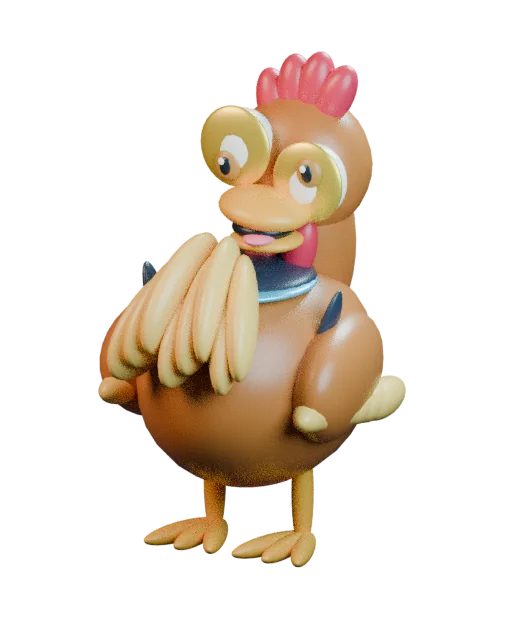
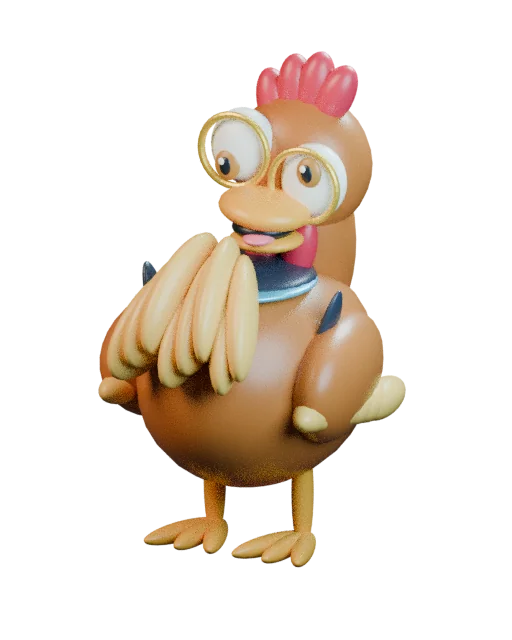
polish: chicken riders, mobile projection and verified live world rollout

Changed region(s): [[0.375, 0.1562, 0.6875, 0.375]]

diff --git a/index.html b/index.html
@@ -4,9 +4,9 @@
 <main id="home" class="screen">
  <header><a class="brand" href="#">KART<span>GO</span><i>›</i></a><span class="byline">BEDACHT DOOR JAYLENN</span><button id="sound" class="round" aria-label="Geluid aanzetten">♫</button></header>
  <section class="hero"><div class="hero-copy"><span class="eyebrow">JAYLENNS RACEWERELD</span><h1>KART <em>GO</em></h1><p>Vol gas door groene heuvels. Pak je power-ups.<br> En pas op voor een hond in een hotdog.</p><div class="hero-actions"><button id="resumeRace" class="secondary hidden">Hervat je race</button><button id="play" class="primary">Spelen <span>›</span></button><button id="how" class="text-button">Hoe speel je? <span>ⓘ</span></button></div><div class="hero-facts"><span><strong>75</strong> levels</span><span><strong>4</strong> werelden</span><span><strong>3</strong> eindbazen</span></div></div><div class="hero-art"><canvas id="art" aria-label="Een rode kart en een hond in een hotdog-kart tussen groene heuvels"></canvas><div class="art-tag"><span>🌭</span><div><strong>De hotdog-hond</strong><small>Hij wacht op je in level 20.</small></div><b>›</b></div><span class="float-tag">LET'S GO! ✦</span></div></section>
- <nav class="player-hub" aria-label="Jouw racewereld"><button id="profile" class="hub-card"><span id="playerAvatar">🧑🚀</span><strong id="playerName">Kies je racenaam</strong><small id="playerXP"></small></button><button id="garage" class="hub-card"><span>🏎</span><strong>Garage</strong><small>Motor, kleur & effecten</small></button><a href="./multiplayer/" style="display:inline-flex;align-items:center;padding:14px;background:#fbd451;color:#153b31;border-radius:14px;font-weight:800;text-decoration:none;margin:10px 0">Samen racen · QR-uitnodiging</a><button id="friends" class="hub-card"><span>🤝</span><strong>Vrienden</strong><small>Code & QR · online nog uit</small></button></nav><section class="party-teaser" aria-label="Party-Wereld vooruitblik"><span class="eyebrow">✨ WERELD 4 · NA DE IJS-WERELD · BEDACHT DOOR JAYLENN</span><div class="party-mounts" aria-label="Drie kiesbare racekippen"><img loading="lazy" src="assets/graphics/chickens/chicken-0-card.webp?v=worlds3" alt="Kuifkop"><img loading="lazy" src="assets/graphics/chickens/chicken-1-card.webp?v=worlds3" alt="Professor Tok"><img loading="lazy" src="assets/graphics/chickens/chicken-2-card.webp?v=worlds3" alt="Disco Tok"></div><h2>🎉 Party-Wereld: De 5 KM Kippen-Rodeo!</h2><p>Drie reuzenkippen, slingerende banen, meteorieten en bij kilometer 3 een GIGANTISCHE KAT! 🐈 Kies jouw knotsgekke racekip, zet je eigen coureur op het zadel en beleef Jaylenns vijf Party-races.</p><a class="party-play" href="./party/">🏁 Speel de 5 Party-levels!</a><span class="soon">Wereld 4 · levels 71–75 · originele voortgang behouden</span></section><nav class="menu-tools" aria-label="Spelmenu"><button id="chooseWorld"><span>🌍</span> Kies je wereld</button><button id="openWorldMap"><span>⚑</span> Wereldkaart</button><button id="menuSettings"><span>⚙</span> Instellingen</button></nav><section id="worldPanel" class="world hidden"><button id="closeWorldMap" class="secondary world-back">‹ Hoofdmenu</button><div class="section-heading"><div><span class="eyebrow">JOUW VOLGENDE AVONTUUR</span><h2>Op naar de finish.</h2></div><span id="progressText" class="progress-text">0 / 70 gewonnen</span></div><div class="map-tools"><button class="secondary" id="claimGlitter">✨ Haal je glitters op</button><span class="saved-note">Win je eerste race om deze kaartbeloning op te halen.</span></div><div class="route-line"><span>START</span><div></div><span>🌭 FINALE</span></div><div class="race-mode-choice" role="group" aria-label="Spelmodus"><button class="secondary" data-race-mode="free" aria-pressed="false">Vrij racen</button><button class="secondary" data-race-mode="adventure" aria-pressed="true">Avontuur</button></div><a data-online-world class="party-play" href="./multiplayer/?level=1&amp;mode=free">Samen racen in deze wereld ›</a><p id="modeHint" class="saved-note">Win een race om de volgende vrij te spelen.</p><div class="world-tabs" role="group" aria-label="Wereld kiezen"><button data-world="1" class="selected">🌿 Groene Wereld <small>1–20</small></button><button data-world="2">🏜 Zandwereld <small>21–50</small></button><button data-world="3">❄ IJs-Wereld <small>51–70</small></button><a class="party-world-card" data-party-world href="./party/?mode=free"><strong>Party-Wereld</strong><small>71–75 · Vrij racen</small></a></div><p id="worldHint"></p><div id="levels" class="levels"></div></section>
+ <nav class="player-hub" aria-label="Jouw racewereld"><button id="profile" class="hub-card"><span id="playerAvatar">🧑🚀</span><strong id="playerName">Kies je racenaam</strong><small id="playerXP"></small></button><button id="garage" class="hub-card"><span>🏎</span><strong>Garage</strong><small>Motor, kleur & effecten</small></button><a href="./multiplayer/" style="display:inline-flex;align-items:center;padding:14px;background:#fbd451;color:#153b31;border-radius:14px;font-weight:800;text-decoration:none;margin:10px 0">Samen racen · QR-uitnodiging</a><button id="friends" class="hub-card"><span>🤝</span><strong>Vrienden</strong><small>Code & QR · online nog uit</small></button></nav><section class="party-teaser" aria-label="Party-Wereld vooruitblik"><span class="eyebrow">✨ WERELD 4 · NA DE IJS-WERELD · BEDACHT DOOR JAYLENN</span><div class="party-mounts" aria-label="Drie kiesbare racekippen"><img loading="lazy" src="assets/graphics/chickens/chicken-0-card.webp?v=worlds3.1" alt="Kuifkop"><img loading="lazy" src="assets/graphics/chickens/chicken-1-card.webp?v=worlds3.1" alt="Professor Tok"><img loading="lazy" src="assets/graphics/chickens/chicken-2-card.webp?v=worlds3.1" alt="Disco Tok"></div><h2>🎉 Party-Wereld: De 5 KM Kippen-Rodeo!</h2><p>Drie reuzenkippen, slingerende banen, meteorieten en bij kilometer 3 een GIGANTISCHE KAT! 🐈 Kies jouw knotsgekke racekip, zet je eigen coureur op het zadel en beleef Jaylenns vijf Party-races.</p><a class="party-play" href="./party/">🏁 Speel de 5 Party-levels!</a><span class="soon">Wereld 4 · levels 71–75 · originele voortgang behouden</span></section><nav class="menu-tools" aria-label="Spelmenu"><button id="chooseWorld"><span>🌍</span> Kies je wereld</button><button id="openWorldMap"><span>⚑</span> Wereldkaart</button><button id="menuSettings"><span>⚙</span> Instellingen</button></nav><section id="worldPanel" class="world hidden"><button id="closeWorldMap" class="secondary world-back">‹ Hoofdmenu</button><div class="section-heading"><div><span class="eyebrow">JOUW VOLGENDE AVONTUUR</span><h2>Op naar de finish.</h2></div><span id="progressText" class="progress-text">0 / 70 gewonnen</span></div><div class="map-tools"><button class="secondary" id="claimGlitter">✨ Haal je glitters op</button><span class="saved-note">Win je eerste race om deze kaartbeloning op te halen.</span></div><div class="route-line"><span>START</span><div></div><span>🌭 FINALE</span></div><div class="race-mode-choice" role="group" aria-label="Spelmodus"><button class="secondary" data-race-mode="free" aria-pressed="false">Vrij racen</button><button class="secondary" data-race-mode="adventure" aria-pressed="true">Avontuur</button></div><a data-online-world class="party-play" href="./multiplayer/?level=1&amp;mode=free">Samen racen in deze wereld ›</a><p id="modeHint" class="saved-note">Win een race om de volgende vrij te spelen.</p><div class="world-tabs" role="group" aria-label="Wereld kiezen"><button data-world="1" class="selected">🌿 Groene Wereld <small>1–20</small></button><button data-world="2">🏜 Zandwereld <small>21–50</small></button><button data-world="3">❄ IJs-Wereld <small>51–70</small></button><a class="party-world-card" data-party-world href="./party/?mode=free"><strong>Party-Wereld</strong><small>71–75 · Vrij racen</small></a></div><p id="worldHint"></p><div id="levels" class="levels"></div></section>
  <div id="assetStatus" class="asset-status" role="status"></div><footer><span>KART GO — Een spel bedacht door <strong>Jaylenn</strong> · gebouwd met hulp van AI</span><button id="settings" class="text-button">⚙ Besturing</button><button id="exportProgress" class="text-button">Bewaar voortgang</button><button id="importProgress" class="text-button">Lees voortgang in</button><input id="progressFile" type="file" accept="application/json,.json" class="hidden"><span>JAYLENNS RACEWERELD · V6.2</span></footer>
 </main>
 <section id="race" class="hidden"><canvas id="game" aria-label="Racebaan"></canvas><div id="hud"><button id="pause" class="hud-button" aria-label="Pauzeren">II</button><div class="race-label"><small id="levelLabel">LEVEL 01</small><strong id="trackLabel">Groene start</strong></div><div class="race-stats"><span><small>POSITIE</small><b id="position">1<span>/4</span></b></span><span><small>RONDE</small><b id="lap">1<span>/2</span></b></span><span><small>TIJD</small><b id="time">0:00</b></span></div></div><div id="danger" class="hidden">⚠ GEVAAR ACHTER JE <div><i></i></div></div><div id="iceCue" class="hidden" role="status" aria-live="polite"></div><div id="recoveryCue" class="hidden" role="status" aria-live="polite"></div><div id="toast" role="status" aria-live="polite"></div><div id="startLights" class="hidden" data-phase="3" aria-label="Startlicht"><i></i><i></i><i></i></div><div id="startVoice" class="hidden" aria-live="polite"></div><div id="countdown" aria-live="assertive"></div><span id="racePlayer"></span><button id="cosmetic" class="hidden" aria-label="Boem-effect gebruiken">💥 Boem</button><div id="racebottom"><div class="speed"><b id="speed">0</b><small>KM/U</small></div><div id="inventory"></div><button id="auto" class="auto active">AUTOGAS AAN</button></div><div id="controls"><button id="modeSwitch" aria-label="Besturing wisselen">Stuurknoppen · wissel</button><button id="brake" class="pedal">▰<small>REM</small></button><div id="steering"><button id="left" aria-label="Stuur links">◀</button><div id="wheel" role="slider" tabindex="0" aria-valuemin="-100" aria-valuemax="100" aria-valuenow="0" aria-label="Stuurwiel, sleep links of rechts"><span>✣</span></div><button id="right" aria-label="Stuur rechts">▶</button><div id="joystick" class="hidden" role="slider" tabindex="0" aria-label="Groene joystick" aria-valuemin="-100" aria-valuemax="100" aria-valuenow="0"><i></i></div></div><button id="gas" class="pedal gas">▥<small>GAS</small></button></div><div id="mini"><canvas id="minimap" width="130" height="90"></canvas></div></section>
 <dialog id="modal"><button id="closeModal" class="close" aria-label="Sluiten">×</button><div id="modalBody"></div></dialog>
-<script defer src="./assets/party-neon-v63.js?v=6.3.0"></script><script defer src="./assets/vendor/qrcode.js?v=1.4.4"></script><script defer src="./assets/graphics.js?v=6.2.3"></script><script defer src="./assets/player.js?v=worlds-3"></script><script defer src="./assets/scenery.js?v=6.2.1"></script><script defer src="./assets/desert.js?v=6.2.1"></script><script defer src="./assets/course.js?v=6.2.1"></script><script defer src="./assets/ice-world.js?v=6.2.1"></script><script defer src="./assets/race-adventure.js?v=6.2.1"></script><script defer src="./assets/game.js?v=worlds3"></script></body></html>
+<script defer src="./assets/party-neon-v63.js?v=6.3.0"></script><script defer src="./assets/vendor/qrcode.js?v=1.4.4"></script><script defer src="./assets/graphics.js?v=6.2.3"></script><script defer src="./assets/player.js?v=worlds-3.1"></script><script defer src="./assets/scenery.js?v=6.2.1"></script><script defer src="./assets/desert.js?v=6.2.1"></script><script defer src="./assets/course.js?v=6.2.1"></script><script defer src="./assets/ice-world.js?v=6.2.1"></script><script defer src="./assets/race-adventure.js?v=6.2.1"></script><script defer src="./assets/game.js?v=worlds3.1"></script></body></html>

diff --git a/party/index.html b/party/index.html
@@ -1,8 +1,8 @@
-<!doctype html><html lang="nl"><head><base href="../"><meta charset="utf-8"><link rel="stylesheet" href="assets/visual-v5.css?v=worlds3"><meta name="viewport" content="width=device-width,initial-scale=1,viewport-fit=cover,user-scalable=no"><meta name="theme-color" content="#100d35"><title>Kart Go — Party-Wereld van Jaylenn</title><style>
+<!doctype html><html lang="nl"><head><base href="../"><meta charset="utf-8"><link rel="stylesheet" href="assets/visual-v5.css?v=worlds3.1"><meta name="viewport" content="width=device-width,initial-scale=1,viewport-fit=cover,user-scalable=no"><meta name="theme-color" content="#100d35"><title>Kart Go — Party-Wereld van Jaylenn</title><style>
 *{box-sizing:border-box}html,body{margin:0;min-height:100%;font:600 15px system-ui;color:#fff;background:radial-gradient(circle at 75% 0,#5326a5,#101039 65%)}button{font:inherit;cursor:pointer;touch-action:manipulation}header{padding:14px 16px;display:flex;align-items:center;justify-content:space-between;background:#0b1749;border-bottom:2px solid #43dfff}a{color:#9eeaff;text-decoration:none}.logo{font-size:26px;font-style:italic;font-weight:1000;text-shadow:0 0 12px #16caff}.logo span{color:#ffca38}.wrap{max-width:950px;margin:auto;padding:18px}.title{font-size:clamp(26px,5vw,44px);color:#ffda66;text-shadow:0 0 15px #e442ff;margin:10px 0}.lead{color:#e9cfff}.cards{display:grid;grid-template-columns:repeat(5,minmax(0,1fr));gap:10px}.card{border:2px solid #6ae5ff;border-radius:15px;background:linear-gradient(145deg,#6b259c,#162a76);color:white;padding:15px 7px;min-height:120px;box-shadow:0 5px 0 #080f39,0 0 15px #a338ff66}.card b{display:block;font-size:25px}.card small{display:block;font-size:11px;margin-top:8px}.card.active{border-color:#ffdf4c;box-shadow:0 0 25px #ffbf47}.card.locked{opacity:.6}.panel{margin-top:18px;border:2px solid #ff76ed;background:#1b1557;border-radius:20px;padding:16px;box-shadow:0 0 22px #d234ff66}.panel p{line-height:1.6}.go{background:linear-gradient(#fff6a2,#ffba28);color:#381749;border:0;border-radius:14px;padding:14px 22px;font-weight:1000;box-shadow:0 5px 0 #995316}#stage{display:none}#game{display:block;width:100%;height:min(65svh,650px);background:#14245b;border:3px solid #7fe7ff;border-radius:18px;touch-action:none}#hud{display:flex;gap:10px;flex-wrap:wrap;justify-content:space-between;padding:12px 0}#hud span{background:#132865;border:1px solid #55caff;border-radius:12px;padding:8px 12px}#controls{display:flex;gap:15px;justify-content:space-between;margin:14px 0}#controls button{width:28%;height:70px;border:2px solid #77e6ff;border-radius:18px;background:linear-gradient(#2456c3,#161d5d);color:white;font-size:24px}#controls button:active{background:#5a95ff}.note{font-size:12px;color:#d9cafa}@media(max-width:600px){.cards{grid-template-columns:repeat(3,1fr)}.card{min-height:95px}.wrap{padding:12px}#game{height:56svh}}.party-driver{display:grid;grid-template-columns:1fr 1fr;gap:15px;align-items:center}.party-driver canvas{width:100%;height:250px;object-fit:contain}.party-driver label{display:block;margin:12px 0 6px}.party-driver select{width:100%;font:inherit;padding:12px;border-radius:12px;color:white;background:#193255;border:1px solid #7cafd4}.party-chicken-cards{display:flex;gap:12px;margin:15px 0}.party-chicken-cards button{flex:1;min-width:0;color:white;background:#192c54;border:2px solid #5eaad1;border-radius:16px;padding:8px}.party-chicken-cards button[aria-pressed=true]{border-color:#ffdd69;box-shadow:0 0 20px #ffd35344}.party-chicken-cards img{width:100%;height:150px;object-fit:contain}.party-chicken-cards b{display:block}.party-actions{display:flex;gap:12px;flex-wrap:wrap;align-items:center;margin:12px 0}.online-inventory{display:flex;justify-content:center;gap:12px;margin:12px 0}.online-inventory button{width:64px;height:64px;border-radius:15px;color:#fff;background:#1a335f;border:2px solid #6dc8de;font-size:22px}.online-inventory img{width:48px;height:48px}.online-inventory .power-sprite{display:block;background-image:url("assets/graphics/effects-v5.webp");background-size:500% 200%;width:48px;height:48px}#controls{gap:8px}#controls button{width:24%;font-size:18px;height:62px}.card b{font:900 28px system-ui}.party-status-banner{font-weight:800;color:#ffe5a5;text-align:center}@media(max-width:600px){.party-driver{grid-template-columns:1fr}.party-driver canvas{height:220px}.party-chicken-cards{gap:5px}.party-chicken-cards img{height:110px}.party-chicken-cards button{font-size:11px}.party-actions .go{padding:12px;font-size:13px}} 
 #menu{background:linear-gradient(#10123822,#101039f5 370px),url('assets/graphics/chickens/party-fairground.webp') center top/950px auto no-repeat;padding-top:14px}.party-driver canvas{filter:drop-shadow(0 5px 15px #66dfff55)}.party-driver select{background:#101d42ee}.party-status-banner{background:#142859bb;border:1px solid #71e0ff;border-radius:14px;padding:10px}.party-chicken-cards button{background:linear-gradient(#192b5399,#172044)}.party-chicken-cards button:hover{transform:translateY(-3px)}.card{transition:transform .15s}.card:hover{transform:translateY(-3px)}
 body.party-racing{overflow:hidden}body.party-racing #stage{position:fixed;inset:0;z-index:20;padding:max(6px,env(safe-area-inset-top)) max(8px,env(safe-area-inset-right)) max(8px,env(safe-area-inset-bottom)) max(8px,env(safe-area-inset-left));display:flex!important;flex-direction:column;gap:6px;background:#0c102e}body.party-racing #hud{padding:0;gap:5px;font-size:11px;flex:none}body.party-racing #hud span{padding:6px 8px}body.party-racing #game{height:0;min-height:100px;flex:1}body.party-racing #controls{margin:0;flex:none}body.party-racing #controls button{height:48px}body.party-racing .online-inventory{margin:0;flex:none}body.party-racing .online-inventory button{height:48px;width:55px;font-size:16px}body.party-racing .online-inventory .power-sprite{width:36px;height:36px}body.party-racing .party-actions{gap:6px;margin:0;flex:none}body.party-racing .party-actions .go{padding:11px;font-size:12px;min-height:44px}body.party-racing #stage>.note{display:none}#partyFinish:not([hidden]){position:absolute;inset:10px;z-index:40;overflow:auto;text-align:center;background:#121945f5}@media(orientation:landscape) and (max-height:500px){body.party-racing #hud{font-size:10px}body.party-racing .party-actions{position:absolute;right:14px;top:60px;flex-direction:column;align-items:stretch}body.party-racing #controls button{height:44px}body.party-racing #game{min-height:80px}body.party-racing .online-inventory{position:absolute;left:20px;top:62px;flex-direction:column}body.party-racing .online-inventory button{width:44px;height:44px}} </style></head><body>
 <header><a href="./">‹ Originele Kart Go</a><div class="logo">KART<span>GO</span></div><small>BEDACHT DOOR JAYLENN</small></header>
 <main class="wrap"><section id="menu"><h1 class="title">🎉 Party-Wereld</h1><a href="multiplayer/?level=71&amp;mode=free" class="go">Samen in de Party-Wereld ›</a><p class="lead">Vijf nieuwe races vol Lucky Blocks, gekke hindernissen en de reuzenkat. De eerste 70 levels blijven gewoon bestaan.</p><label for="partyMode">Spelmodus</label> <select id="partyMode" style="font:inherit;padding:12px;background:#142956;color:white;border:1px solid #77e6ff;border-radius:12px"><option value="free">Vrij racen · alle 5 levels</option><option value="adventure">Avontuur · vrijspelen</option></select><div class="party-driver"><canvas id="partyPreview" width="600" height="330" aria-label="Jouw gekozen kip met eigen coureur"></canvas><div><label for="partyAvatar">Jouw coureur</label><select id="partyAvatar"></select><label for="partyEngine">Motorvermogen</label><select id="partyEngine"><option value="250">250 pk</option><option value="509">509 pk</option><option value="1000">1000 pk</option></select><label for="partyChicken">Kies jouw racekip</label><select id="partyChicken"><option value="0">Kuifkop</option><option value="1">Professor Tok</option><option value="2">Disco Tok</option></select></div></div><div id="partyChickenCards" class="party-chicken-cards"></div><p id="partyStatus" role="status">Kippen en coureurs laden…</p><div class="cards" id="cards"></div><div class="panel"><h2 id="descriptionTitle">Kies een level</h2><p id="description"></p><button id="play" class="go">🏁 Start race!</button><p class="note">Besturing: stuur en geef gas tegelijk, of gebruik autogas. Spring met de knop of spatie. Botsing? Zes seconden straf. Voortgang wordt apart bewaard.</p></div></section>
 <section id="stage"><div id="hud"><span id="raceName"></span><span id="distance"></span><span id="penalty"></span><span id="score"></span></div><canvas id="game"></canvas><div id="partyItems" class="online-inventory"></div><div id="controls"><button id="brake" aria-label="Rem">REM</button><button id="left" aria-label="Links">◀</button><button id="right" aria-label="Rechts">▶</button><button id="gas" aria-label="Gas">GAS</button></div><div class="party-actions"><button id="jump" class="go">SPRING ↟</button><button id="pause" class="go">Pauze</button><button id="restart" class="go">Opnieuw</button><label><input id="partyAuto" type="checkbox" checked> Autogas</label><button id="back" class="go">‹ Menu</button></div><div id="partyFinish" class="panel" hidden></div><p class="note">Vermijd hindernissen. Raak de ✨ sterren voor punten. Bij 3 km pakt de kat één kip. Houd je klaar: spring naar de veilige kip!</p></section></main>
-<script src="assets/graphics.js?v=6.2.3"></script><script src="assets/player.js?v=worlds3"></script><script src="assets/race-worlds.js?v=worlds3"></script><script src="assets/world-race-renderer.js?v=worlds3"></script><script src="party/party-riders.js?v=worlds3"></script></body></html>
+<script src="assets/graphics.js?v=6.2.3"></script><script src="assets/player.js?v=worlds3.1"></script><script src="assets/race-worlds.js?v=worlds3.1"></script><script src="assets/world-race-renderer.js?v=worlds3.1"></script><script src="party/party-riders.js?v=worlds3.1"></script></body></html>

diff --git a/multiplayer/index.html b/multiplayer/index.html
@@ -1,6 +1,6 @@
-<!doctype html><html lang="nl"><head><meta charset="utf-8"><base href="../"><meta name="viewport" content="width=device-width,initial-scale=1,viewport-fit=cover"><meta name="theme-color" content="#08172e"><meta name="referrer" content="no-referrer"><title>Kart Go — Samen racen</title><link rel="stylesheet" href="assets/visual-v5.css?v=worlds-3"><link rel="stylesheet" href="multiplayer/online.css?v=worlds-3"></head><body>
+<!doctype html><html lang="nl"><head><meta charset="utf-8"><base href="../"><meta name="viewport" content="width=device-width,initial-scale=1,viewport-fit=cover"><meta name="theme-color" content="#08172e"><meta name="referrer" content="no-referrer"><title>Kart Go — Samen racen</title><link rel="stylesheet" href="assets/visual-v5.css?v=worlds-3.1"><link rel="stylesheet" href="multiplayer/online.css?v=worlds-3.1"></head><body>
 <header><a href="./" class="brand">KART<span>GO</span></a><small>BEDACHT DOOR JAYLENN</small><a href="./">‹ Hoofdmenu</a></header><main>
 <section id="setup" class="panel"><span class="eyebrow">MET JE VRIENDJES AAN DE START</span><h1>Samen racen</h1><p id="intro">Maak een besloten racekamer. Je vriendje scant jouw QR en rijdt met je mee.</p><div id="setupSelection" class="course-pick"><label for="raceMode">Spelmodus</label><select id="raceMode"><option value="free">Vrij racen · alles open</option><option value="adventure">Avontuur · co-opregel</option></select><div id="worldCards" class="world-cards"></div><label for="levelPick">Kies je level</label><select id="levelPick"></select></div><button id="backToLobby" class="hidden">Bewaar en terug naar racekamer</button><div class="profile"><canvas id="kartPreview" width="500" height="280" aria-label="Jouw kart en coureur"></canvas><div><label for="nickname">Jouw racenaam</label><input id="nickname" maxlength="18" placeholder="Bijvoorbeeld TurboJay" autocomplete="nickname"><label for="avatar">Jouw coureur</label><select id="avatar"></select><label for="paint">Kartkleur</label><select id="paint"></select><label for="engine">Motorvermogen</label><select id="engine"><option value="250">250 pk</option><option value="509">509 pk</option><option value="1000">1000 pk</option></select><label for="controlMode">Besturing</label><select id="controlMode"><option value="buttons">Stuurknoppen</option><option value="wheel">Stuurwiel</option><option value="joystick">Groene joystick</option></select></div></div><div id="chickenGarage" class="hidden"><h2>Kies jouw knotsgekke racekip</h2><p>Jouw eigen coureur zit op het zadel. De kip is jouw voertuig!</p><select id="chickenChoice" class="hidden"><option value="0">Kuifkop</option><option value="1">Professor Tok</option><option value="2">Disco Tok</option></select><div id="chickenCards" class="chicken-cards"></div></div><p class="note">Alle werelden zijn direct beschikbaar in Vrij racen. Avontuur bewaart je voortgang; samen mag een level als één coureur het al gewonnen heeft.</p><button id="create" class="primary">Maak een racekamer ›</button><button id="joinInvite" class="primary hidden">Doe mee met deze race ›</button><details><summary>Ik heb een uitnodigingslink</summary><label for="inviteInput">Plak de volledige uitnodigingslink</label><input id="inviteInput" type="url" placeholder="Plak hier de link"><button id="joinLink">Open uitnodiging</button></details></section>
 <section id="lobby" class="panel hidden"><div class="heading"><div><span class="eyebrow">BESLOTEN RACEKAMER</span><h2 id="roomName">Even verbinden…</h2></div><span id="connection" class="badge">Verbinden</span></div><div id="lobbySelection" class="course-pick"><strong id="selectedCourse"></strong><div class="lobby-course-row"><select id="lobbyWorld" aria-label="Wereld voor volgende race"></select><select id="lobbyLevel" aria-label="Level voor volgende race"></select><select id="lobbyMode" aria-label="Spelmodus"><option value="free">Vrij racen</option><option value="adventure">Avontuur</option></select></div><small id="courseRule"></small></div><div class="invitation"><div class="qr-card"><span class="flag">▰ ▱ ▰ ▱ ▰</span><h2>KART GO</h2><strong>RACE MET MIJ MEE!</strong><div id="qr" aria-label="Scanbare uitnodigings-QR"></div><b>SCAN & RACE!</b><small>BEDACHT DOOR JAYLENN</small></div><div class="invite-actions"><p>Scan met je telefooncamera. Naam kiezen, klaarzetten en racen!</p><p id="capacity">0 / 6 coureurs</p><button id="share">Deel uitnodiging</button><button id="copy">Kopieer link</button><button id="newRoom">Nieuwe QR-code</button><small>Een nieuwe QR maakt een nieuwe kamer. De bestaande kamer wordt daarmee niet gesloten.</small></div></div><div id="members" class="members" aria-live="polite"></div><button id="editProfile">Mijn coureur en voertuig aanpassen</button><div class="actions"><button id="ready" class="primary" disabled>Ik ben klaar</button><button id="start" class="primary" disabled>Start race</button><button id="leave">Verlaat kamer</button></div></section>
 <section id="race" class="hidden"><div class="race-heading"><strong id="raceTitle">Samen racen</strong><span id="raceInfo"></span><button id="exitRace">Stop race</button></div><div class="track-wrap"><canvas id="track" width="900" height="650" aria-label="Gezamenlijke online racebaan"></canvas><div id="countdown" aria-live="assertive"></div><div id="standings"></div><div id="eventCue" role="status"></div></div><div id="onlineInventory" class="online-inventory" aria-label="Drie inventarisplaatsen"></div><div class="drive-controls"><button id="brake">REM</button><button id="left" aria-label="Stuur links">◀</button><button id="right" aria-label="Stuur rechts">▶</button><button id="gas">GAS</button><div id="analogSteer" class="hidden" role="slider" aria-label="Stuurwiel of joystick" aria-valuemin="-100" aria-valuemax="100" aria-valuenow="0"><i></i></div></div><button id="jump" class="hidden">SPRING ↟</button><p class="note">Houd gas en een stuurknop tegelijk vast. Computer: pijltjes of WASD. Bij wegklikken laat je kart vanzelf gas los.</p><div id="results" class="panel hidden"><h2>Finish!</h2><ol id="resultList"></ol><button id="raceAgain" class="primary">Volgende race · zelfde kamer</button><a href="./">Hoofdmenu</a></div></section>
-<p id="status" role="status" aria-live="polite">Beelden worden geladen…</p><button id="reconnect" class="hidden">Opnieuw verbinden</button><p class="note">Geen accounts, openbare chat of spelerslijst. Gebruik een bijnaam. De serverkamer verloopt na maximaal twee uur. Je kunt na kort verbindingsverlies je bestaande raceplek hervatten.</p></main><script src="assets/vendor/qrcode.js?v=1.4.4"></script><script src="assets/graphics.js?v=6.2.3"></script><script src="assets/player.js?v=worlds-3"></script><script src="assets/race-worlds.js?v=worlds-3"></script><script src="assets/world-race-renderer.js?v=worlds-3"></script><script src="multiplayer/online.js?v=worlds-3"></script></body></html>
+<p id="status" role="status" aria-live="polite">Beelden worden geladen…</p><button id="reconnect" class="hidden">Opnieuw verbinden</button><p class="note">Geen accounts, openbare chat of spelerslijst. Gebruik een bijnaam. De serverkamer verloopt na maximaal twee uur. Je kunt na kort verbindingsverlies je bestaande raceplek hervatten.</p></main><script src="assets/vendor/qrcode.js?v=1.4.4"></script><script src="assets/graphics.js?v=6.2.3"></script><script src="assets/player.js?v=worlds-3.1"></script><script src="assets/race-worlds.js?v=worlds-3.1"></script><script src="assets/world-race-renderer.js?v=worlds-3.1"></script><script src="multiplayer/online.js?v=worlds-3.1"></script></body></html>

diff --git a/assets/world-race-renderer.js b/assets/world-race-renderer.js
@@ -2,7 +2,7 @@
 'use strict';
 const WorldRace=(()=>{
  const courses=new Map();let slowFrames=0;const images=new Map(),names=['Kuifkop','Professor Tok','Disco Tok'];let ready=false;
- function load(){return Promise.all([Promise.all(['fairground','train'].map(name=>new Promise((resolve,reject)=>{const im=new Image();im.onload=()=>{images.set(name,im);resolve();};im.onerror=reject;im.src='./assets/graphics/chickens/party-'+name+'.webp?v=worlds3';}))),Promise.all(['characters','charactersExtra','karts','landscapes','scenery','winter','iceprops','effects','terrain','bosses','burger'].map(GFX.load)),...Array.from({length:3},(_,i)=>['rear','card'].map(v=>new Promise((resolve,reject)=>{const im=new Image();im.onload=()=>{images.set(i+'-'+v,im);resolve();};im.onerror=reject;im.src='./assets/graphics/chickens/chicken-'+i+'-'+v+'.webp?v=worlds3';}))).flat(),new Promise((resolve,reject)=>{const im=new Image();im.onload=()=>{images.set('cat',im);resolve();};im.onerror=reject;im.src='./assets/graphics/chickens/party-cat.webp?v=worlds3';})]).then(()=>ready=true);}
+ function load(){return Promise.all([Promise.all(['fairground','train'].map(name=>new Promise((resolve,reject)=>{const im=new Image();im.onload=()=>{images.set(name,im);resolve();};im.onerror=reject;im.src='./assets/graphics/chickens/party-'+name+'.webp?v=worlds3.1';}))),Promise.all(['characters','charactersExtra','karts','landscapes','scenery','winter','iceprops','effects','terrain','bosses','burger'].map(GFX.load)),...Array.from({length:3},(_,i)=>['rear','card'].map(v=>new Promise((resolve,reject)=>{const im=new Image();im.onload=()=>{images.set(i+'-'+v,im);resolve();};im.onerror=reject;im.src='./assets/graphics/chickens/chicken-'+i+'-'+v+'.webp?v=worlds3.1';}))).flat(),new Promise((resolve,reject)=>{const im=new Image();im.onload=()=>{images.set('cat',im);resolve();};im.onerror=reject;im.src='./assets/graphics/chickens/party-cat.webp?v=worlds3.1';})]).then(()=>ready=true);}
  function chicken(c,x,y,k,index,avatar,front=false,time=0,jump=0){const im=images.get((index||0)+'-'+(front?'card':'rear'));if(!im)return false;c.save();c.translate(x,y-jump);c.rotate(Math.sin(time*9+index)*.018);c.shadowColor='#02041499';c.shadowBlur=12*k;c.drawImage(im,-91*k,-204*k,182*k,228*k);c.shadowBlur=0;
   const rider=GFX.driverSprite(avatar, !front);if(rider){c.fillStyle='#163a72';for(const side of [-1,1]){c.beginPath();c.ellipse(side*28*k,-57*k,8*k,19*k,side*.2,0,7);c.fill();}c.drawImage(rider,-34*k,-130*k,68*k,68*k);}c.restore();return true;}
  function preview(c,w,h,p,party=false){c.clearRect(0,0,w,h);const k=Math.min(w/320,h/230);if(party)return chicken(c,w/2,h*.93,k,p.chicken,AVATARS[p.avatar],true,performance.now()/1000);return GFX.drawKart(c,w/2,h*.94,k*1.5,p.color,false,0,{avatar:AVATARS[p.avatar]},4);}
@@ -35,7 +35,7 @@ const WorldRace=(()=>{
   for(const b of s.shots||[]){if(b.d>me.d&&b.d-me.d<viewDistance){const p=project(b.d);GFX.effect(c,5,p.x+b.x*p.half*.8,p.y,40*unit*p.q);}}
   if(rodeo){for(let lane=0;lane<3;lane++){const x=(lane-1)*.62,catGone=s.event?.cat&&Math.abs(x-s.event.removedLane)<.2;if(catGone&&time>s.event.catAt+2.5)continue;const p=project(me.d+200),lift=catGone?Math.min(1,(time-s.event.catAt)/2.5):0;c.save();c.globalAlpha=1-lift;c.translate(lift*w*.17,-lift*h*.32);chicken(c,p.x+x*p.half*.8,p.y,(1-lift)*.7*unit,lane,undefined,false,time);c.restore();}}
   for(const p of [...s.players,...(s.npcs||[])].filter(p=>p.id!==myId&&p.d>me.d-20&&p.d-me.d<viewDistance).sort((a,b)=>b.d-a.d)){const q=project(Math.max(me.d+5,p.d)),k=(.15+q.q*.85)*unit;drawRacer(c,q.x+p.x*q.half*.8,q.y,k,p,world,time,false);if(p.name){c.fillStyle='#fff';c.textAlign='center';c.font='700 '+Math.max(10,13*k)+'px system-ui';c.fillText(p.name,q.x+p.x*q.half*.8,q.y-150*k);}}
-  drawRacer(c,w*.5+me.x*w*.30,h*.86,1.35*unit,{...me,steer:inputSteer},world,time,true);
+  const ownQ=(h*.86-horizon)/(h*.97-horizon),ownHalf=w*(.025+.56*ownQ)*geo.width;drawRacer(c,w*.5-me.x*w*.025*ownQ+me.x*ownHalf*.8,h*.86,1.35*unit,{...me,steer:inputSteer},world,time,true);
   if(rodeo&&s.event?.d>2700){const cat=images.get('cat');if(cat){const swipe=s.event.cat?Math.min(1,(time-s.event.catAt)/2.5):0;const size=w*(.7+swipe*.35);c.save();c.globalAlpha=.9;c.translate(w*.60,h*.20+Math.sin(time)*3*unit);c.rotate(Math.sin(time*2)*.025);c.drawImage(cat,-size/2,-size*.48,size,size);c.restore();}}
   slowFrames=Math.max(0,Math.min(150,slowFrames+(performance.now()-renderStart>21?2:-.3)));if(me.penalty>0||me.freeze>0){c.fillStyle=me.freeze>0?'#4597c5aa':'#6f2146dd';c.fillRect(10,h*.43,w-20,42*unit);c.fillStyle='#fff4c4';c.textAlign='center';c.font='900 '+Math.round(16*unit)+'px system-ui';c.fillText(K.eventText({...s,selection},me),w/2,h*.43+27*unit);}
  }

diff --git a/party/party-riders.js b/party/party-riders.js
@@ -13,7 +13,7 @@ RACER_NAMES.forEach((n,i)=>$('#partyAvatar').add(new Option(n,i)));$('#partyAvat
 function profileValues(){return{avatar:+$('#partyAvatar').value,engine:+$('#partyEngine').value,chicken:+$('#partyChicken').value,color:Object.keys(PAINT_NAMES).indexOf(saved.player.color)};}
 function saveChoices(){const p=profileValues();document.querySelectorAll('[data-chicken]').forEach(b=>b.setAttribute('aria-pressed',String(+b.dataset.chicken===p.chicken)));saved.player.avatar=AVATARS[p.avatar];saved.player.chicken=p.chicken;try{const current=JSON.parse(localStorage.getItem('kartgo-jaylenn-v1')||'{}');current.player={...cleanPlayer(current.player||{}),avatar:AVATARS[p.avatar],chicken:p.chicken};current.engine=p.engine;localStorage.setItem('kartgo-jaylenn-v1',JSON.stringify(current));}catch{$('#partyStatus').textContent='Je keuze werkt nu; bewaren is geblokkeerd.';}preview();}
 for(const id of ['partyAvatar','partyEngine','partyChicken'])$('#'+id).onchange=saveChoices;
-$('#partyChickenCards').innerHTML=WorldRace.names.map((n,i)=>'<button data-chicken="'+i+'" aria-pressed="'+(i===+$('#partyChicken').value)+'"><img src="assets/graphics/chickens/chicken-'+i+'-card.webp?v=worlds3" alt="'+n+'"><b>'+n+'</b></button>').join('');document.querySelectorAll('[data-chicken]').forEach(b=>b.onclick=()=>{$('#partyChicken').value=b.dataset.chicken;document.querySelectorAll('[data-chicken]').forEach(x=>x.setAttribute('aria-pressed',String(x===b)));saveChoices();});
+$('#partyChickenCards').innerHTML=WorldRace.names.map((n,i)=>'<button data-chicken="'+i+'" aria-pressed="'+(i===+$('#partyChicken').value)+'"><img src="assets/graphics/chickens/chicken-'+i+'-card.webp?v=worlds3.1" alt="'+n+'"><b>'+n+'</b></button>').join('');document.querySelectorAll('[data-chicken]').forEach(b=>b.onclick=()=>{$('#partyChicken').value=b.dataset.chicken;document.querySelectorAll('[data-chicken]').forEach(x=>x.setAttribute('aria-pressed',String(x===b)));saveChoices();});
 function preview(){if(!loaded)return;const cv=$('#partyPreview');WorldRace.preview(cv.getContext('2d'),600,330,{...profileValues(),color:saved.player.color},true);}
 function unlocked(index){return freeRace||completed.includes(index)||(index===0?saved.wins.includes(70):completed.includes(index-1));}
 const descriptions=['Een grote startramp, springende kippen, boost-schansen en een feestelijke aankomst.','Rijd langs de Lucky Block-trein. De blokken verschijnen meteen opnieuw en vullen je drie vakjes.','Eén ronde: Werkbank, Pizzeria, Burger-zone en een vurige KFC-zone met bewegende hindernissen.','Vijf kilometer op drie reuzenkippen. Vanaf 1 km gaan ze wiebelen, vanaf 2 km vallen meteorieten, op 2,5 km ligt je checkpoint. Bij 3 km eet de kat één kip: spring naar een andere!','De grote mix: trein, schansen, vier feestzones, wiebelkippen, meteorieten en de reuzenkat.'];

diff --git a/multiplayer/online.js b/multiplayer/online.js
@@ -58,7 +58,7 @@ function recordOnlineWin(m){if(m.selection?.mode!=='adventure'||m.players[0]?.id
 el('worldCards').innerHTML=Worlds.worlds.map(w=>'<button class="world-card" data-world="'+w.id+'"><b>'+w.name+'</b><small>'+w.from+'–'+w.to+'</small></button>').join('');for(const b of document.querySelectorAll('[data-world]'))b.onclick=()=>syncSelection({level:Worlds.worlds[+b.dataset.world-1].from,mode:el('raceMode').value});
 el('lobbyWorld').replaceChildren(...Worlds.worlds.map(w=>new Option(w.name,w.id)));el('levelPick').onchange=el('raceMode').onchange=()=>syncSelection({level:+el('levelPick').value,mode:el('raceMode').value});
 for(const id of ['lobbyWorld','lobbyLevel','lobbyMode'])el(id).onchange=()=>{if(!host)return;if(id==='lobbyWorld')levelsFor('lobbyLevel',+el('lobbyWorld').value,0);send({type:'selection',selection:{level:+el('lobbyLevel').value,mode:el('lobbyMode').value}});};
-el('chickenCards').innerHTML=WorldRace.names.map((n,i)=>'<button data-chicken="'+i+'" aria-pressed="'+(+el('chickenChoice').value===i)+'"><img src="./assets/graphics/chickens/chicken-'+i+'-card.webp?v=worlds3" alt="'+n+'"><b>'+n+'</b></button>').join('');for(const b of document.querySelectorAll('[data-chicken]'))b.onclick=()=>{el('chickenChoice').value=b.dataset.chicken;el('chickenChoice').dispatchEvent(new Event('change'));for(const other of document.querySelectorAll('[data-chicken]'))other.setAttribute('aria-pressed',String(other===b));};
+el('chickenCards').innerHTML=WorldRace.names.map((n,i)=>'<button data-chicken="'+i+'" aria-pressed="'+(+el('chickenChoice').value===i)+'"><img src="./assets/graphics/chickens/chicken-'+i+'-card.webp?v=worlds3.1" alt="'+n+'"><b>'+n+'</b></button>').join('');for(const b of document.querySelectorAll('[data-chicken]'))b.onclick=()=>{el('chickenChoice').value=b.dataset.chicken;el('chickenChoice').dispatchEvent(new Event('change'));for(const other of document.querySelectorAll('[data-chicken]'))other.setAttribute('aria-pressed',String(other===b));};
 el('jump').onclick=()=>send({type:'jump'});window.addEventListener('keydown',e=>{if(phase==='race'&&['1','2','3'].includes(e.key)&&!e.repeat)send({type:'use',slot:+e.key-1});if(phase==='race'&&e.key===' '&&!e.repeat&&selectedConfig.world===4){e.preventDefault();send({type:'jump'});}});
 function controlUI(){const mode=el('controlMode').value;for(const id of ['left','right'])show(id,mode==='buttons');show('analogSteer',mode!=='buttons');el('analogSteer').classList.toggle('wheel',mode==='wheel');resetControls();}
 el('controlMode').onchange=()=>{try{const p=JSON.parse(localStorage.getItem('kartgo-jaylenn-v1')||'{}');p.mode=el('controlMode').value;localStorage.setItem('kartgo-jaylenn-v1',JSON.stringify(p));}catch{}controlUI();};

diff --git a/tools/blender/chicken_riders.py b/tools/blender/chicken_riders.py
@@ -45,7 +45,8 @@ def chicken(i):
  orb('racing saddle',(0,-.13,2.0),(.48,.5,.13),seat);orb('cyan saddle trim',(0,-.18,1.99),(.51,.52,.075),aqua)
  for side in [-1,1]:orb('saddle strap',(side*.62,-.2,1.6),(.055,.13,.44),seat,(0,side*.3,0));orb('saddle buckle',(side*.68,-.26,1.5),(.06,.15,.1),gold)
  if i==1:
-  for side in [-1,1]:orb('aviator goggle rim',(.14+side*.28,-.035,2.8-side*.09),(.27,.055,.29),gold)
+  for side in [-1,1]:
+   bpy.ops.mesh.primitive_torus_add(major_radius=.255,minor_radius=.025,major_segments=32,minor_segments=10,location=(.14+side*.27,-.075,2.78-side*.09),rotation=(math.pi/2,0,0));bpy.context.object.name='open aviator goggle frame';bpy.context.object.data.materials.append(gold)
  if i==2:
   for k in range(4):orb('disco crest',(.14,.39+k*.12,3.15-k*.02),(.075,.14,.29),tip,(.4,0,0))
  objects=list(set(bpy.data.objects)-before)
@@ -54,7 +55,7 @@ def lighting():
   bpy.ops.object.light_add(type='AREA',location=loc);l=bpy.context.object;l.name=name;l.data.energy=power;l.data.shape='DISK';l.data.size=size;l.data.color=col;l.rotation_euler=(Vector((0,0,1.5))-l.location).to_track_quat('-Z','Y').to_euler()
 bpy.ops.object.camera_add();cam=bpy.context.object;bpy.context.scene.camera=cam
 scene=bpy.context.scene;scene.render.engine='CYCLES';scene.cycles.samples=40;scene.cycles.use_denoising=False;scene.render.resolution_x=512;scene.render.resolution_y=640;scene.render.resolution_percentage=100;scene.render.film_transparent=True;scene.render.image_settings.file_format='PNG';scene.world.color=(.14,.16,.2);scene.view_settings.view_transform='AgX';lighting()
-for i in range(3):
+for i in ([int(os.environ['KART_CHICKEN_INDEX'])] if 'KART_CHICKEN_INDEX' in os.environ else range(3)):
  chicken(i)
  for view,loc in [('rear',(0,-8.5,4.9)),('card',(4,-7.7,4.3))]:
   cam.location=loc;cam.rotation_euler=(Vector((0,0,1.65))-cam.location).to_track_quat('-Z','Y').to_euler();cam.data.type='ORTHO';cam.data.ortho_scale=4.4;scene.render.filepath=f'{OUT}/chicken-{i}-{view}.png';bpy.ops.render.render(write_still=True)

diff --git a/docs/WORK_KARTGO_PROGRESS.md b/docs/WORK_KARTGO_PROGRESS.md
@@ -120,3 +120,17 @@ Deze serverreparatiefase is gepubliceerd. Geen handmatige Cloudflare-actie meer 
 - Avontuur controleert aangeleverde lokale overwinningen serverzijdig op vorm/level. Zonder accounts zijn die lokale claims niet cryptografisch te bewijzen; beweren dat dit fraudevrij is zou onjuist zijn. Vrij racen schrijft geen avontuursoverwinningen.
 - Nieuwe build nog niet op fysieke iPhone/Android of twee netwerken getest. De gebruiker bevestigde de eerdere online basis op twee telefoons. Geen camera-/WhatsApp-/hardwaretest door ons geclaimd.
 - Resterend na publicatie: actuele Worker-versie en Pages-assets verifiëren, `tests/worlds-live.mjs` op productie uitvoeren, browserflow live nalopen. Vriendenlijst met online verzoekbeheer blijft buiten deze fase; private QR-racekamers zijn wel echt online. Het vliegende-kasteelverhaal is een los toekomstidee, niet toegevoegd als nieuwe wereld.
+
+
+## Live gecontroleerd — 2026-11-12
+- Gameplay-uitrolcommit: `edf049d3a709adb59db25bc2177cb657bbe36e83`. GitHub Pages build/deploy/report en Cloudflare Workers Builds alle vier succesvol.
+- Werkelijke `/health`: `ultimate-worlds-3`, protocol 3, worlds/items/chicken-riders/resume/durable-rooms/explicit-host. Geen nieuwe Cloudflare-login of handmatige editoractie nodig.
+- Alle negen gepubliceerde WebP-assets en zeven belangrijkste HTML/JS-bestanden met HTTP 200 opgehaald; SHA-256 identiek aan de lokale geteste bestanden.
+- `node tests/worlds-live.mjs` op productie GESLAAGD: twee onafhankelijke WebSocket-clients openen direct IJs 51, dezelfde aftelling, beide rijden/finishen 2600 m; tussentijds verbreken/herverbinden behoudt id en afstand, geen duplicaat. Daarna dezelfde kamer naar Party 74, kipkeuzes behouden, dezelfde kat bij 3 km, checkpoint en beide finishen de volledige 5000 m met identieke uitslag.
+- De eerste testaanname dat A na disconnect organisator bleef, was onjuist. De server droeg organisatorrechten correct over aan B; de test kiest nu de daadwerkelijk actieve organisator. Dit was een testcorrectie, geen versoepeling van serverrechten.
+- Echte Chromium-browserflow: kamer gemaakt in IJs, gekopieerde uitnodiging opent deelnemer zonder sleutel overtypen; dezelfde kamer omgezet naar Party 74; beide zien de nieuwe selectie; deelnemer verandert kip naar Disco Tok; beide klaar; organisator start; beide racebeelden met gekozen coureur/kip en bewegende posities bekeken.
+- Rootgame live gestart in level 1 en gepauzeerd. Party live met gekozen vos en kip gestart. Portret/landschap in responsive browser gecontroleerd; drie besturingsmethoden/multitouch-eigendom aanvullend via DOM-tests.
+- Laatste visuele afwerking: open gouden brilrand van Professor Tok zodat zijn ogen zichtbaar blijven; eigen rijderpositie afgestemd op baanprojectie; cacheversie worlds3.1. Deze afwerking wijzigt geen server-simulatie.
+- Niet door ons fysiek getest: iPhone/Android, camera-QR, WhatsApp/Berichten of twee aparte netwerken. De gebruiker bevestigde wel de eerdere online tweetelefoontest.
+- Werkende ingangen: oorspronkelijke hoofdpagina, `/multiplayer/` en `/party/`. Party komt na IJs. Vrij racen geeft direct toegang tot alle 75 bestaande/geïntegreerde levels; Avontuur behoudt oorspronkelijke lokale voortgang.
+- Open vervolg: verdere grafische verfijning richting de voorbeeldbeelden, speelsessies met de kinderen op echte telefoons; een echt online vriendenverzoekensysteem is niet in deze fase gebouwd. Het losse vliegende-kasteelverhaal is nog geen spelonderdeel.
